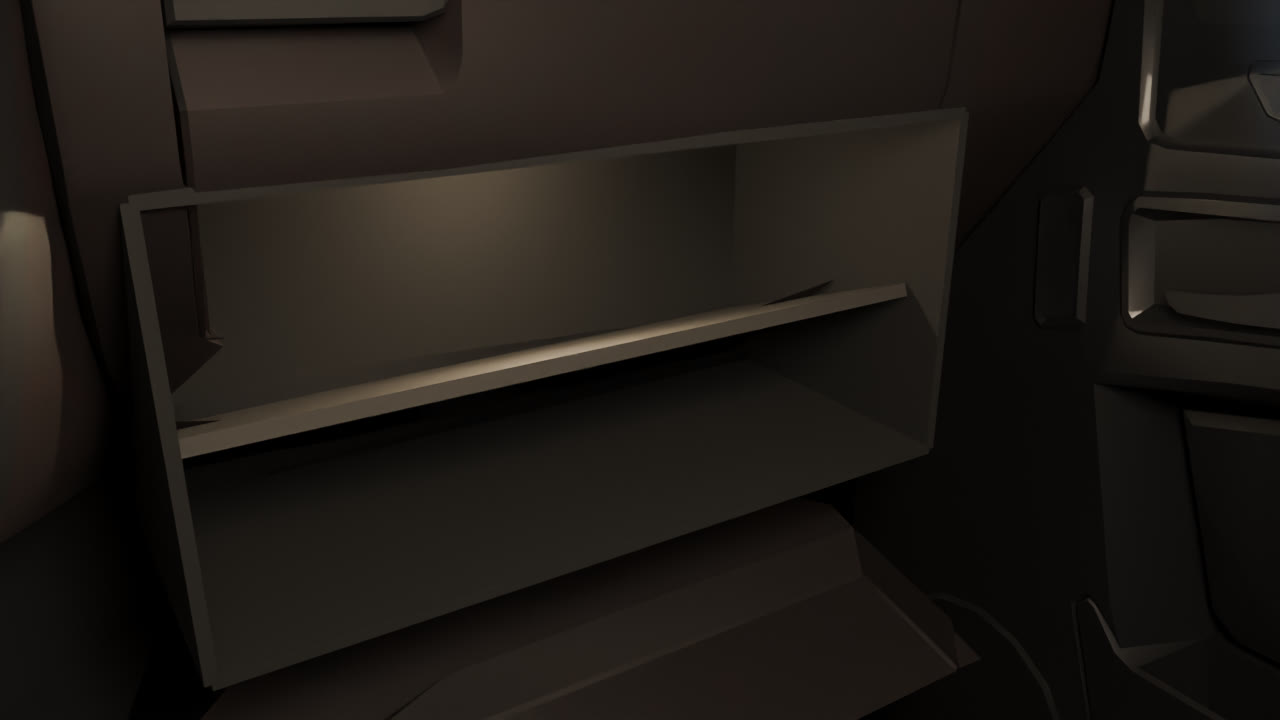
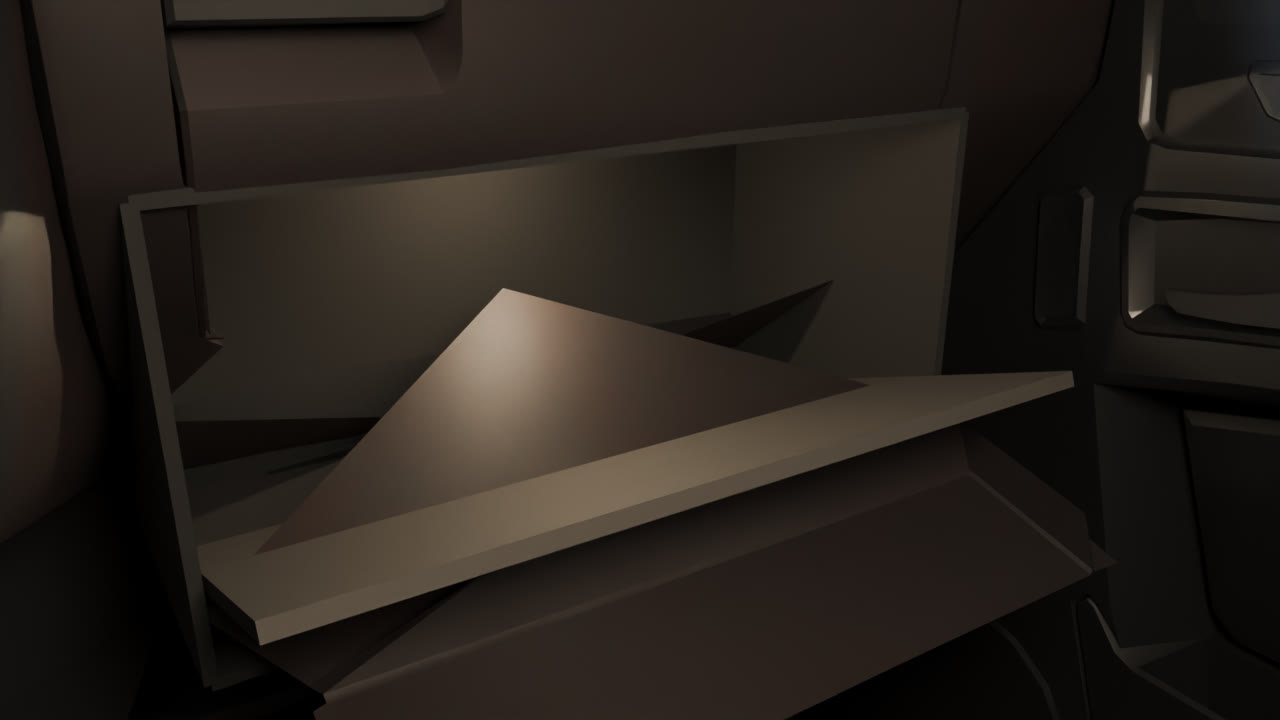
feat(escenas): placa de Veracruz aprobada, calcas mezcladas, puerto en vivo
La placa sigue el diseño actual de Veracruz que mandó el dueño (aprobada
03:36), con el QR a la ruta contada /wa/ (número pendiente con la banda).
Calcas mezcladas sobre la superficie real de la puerta. Guantera: el pivote
pasa a la piel frontal y la basura va sobre la puerta; el triángulo sigue en
revisión. En vivo: vidrios, postes y charcos, RectAreaLight; SSIM f0 sube a
0.425, f96 y f191 bajan (postes y caja demasiado fuertes).

Claude-Session: https://claude.ai/code/session_01JDrAz9gQxZCKuFdz2T7UmK

diff --git a/docs/design/escenas/utileria/index.html b/docs/design/escenas/utileria/index.html
@@ -28,7 +28,7 @@
 <body>
 <main>
 <h1>Utilería, ronda 2: elige una por objeto</h1>
-<p>Lo que pediste en la ronda 1, de noche y con la G63. Responde con la letra de cada objeto (por ejemplo «pantalla A, placa B»). La ronda 1 sigue en <a href="ronda1.html">su propia página</a>.</p>
+<p><b>Elegidas (03:22): pantalla B y caja B.</b> Lo que pediste en la ronda 1, de noche y con la G63. Responde con la letra de cada objeto (por ejemplo «pantalla A, placa B»). La ronda 1 sigue en <a href="ronda1.html">su propia página</a>.</p>
 <p>Lo que no es final: la placa usa letras de Windows provisionales y sus colores no están comparados con una foto de la placa 2026, porque no encontramos ninguna publicada. Por eso es una versión estilizada, sin escudos y sin código QR. En la caja se ocultó a Alexandro y a Diego, porque en el plan van en el asiento de atrás. En la guantera se ocultó a Héctor.</p>
 
 <section aria-labelledby="s-pantalla">
@@ -46,16 +46,24 @@
 <p>Ahora la puerta es la de la propia camioneta: se cortó del tablero, gira sobre su borde de abajo y queda abierta a 70°. Adentro hay una caja oscura.</p>
 <ul>
 <li><figure><a href="guantera2-borde.jpg"><img src="guantera2-borde.jpg" alt="Primer plano del corte de la guantera, sin objetos, para revisar los bordes" loading="lazy" width="1280" height="720"></a><figcaption>Los bordes del corte, de cerca y sin objetos.</figcaption></figure></li>
-<li><figure><a href="guantera2-c.jpg"><img src="guantera2-c.jpg" alt="Guantera abierta con un casete suelto, plumillas, una lista arrugada y lentes oscuros sobre la puerta" loading="lazy" width="1280" height="720"></a><figcaption><b>C</b>Casete suelto, plumillas, la lista arrugada y lentes. Falta corregir: quedaron en un estante dentro de la caja y no sobre la puerta.</figcaption></figure></li>
+<li><figure><a href="guantera2-c.jpg"><img src="guantera2-c.jpg" alt="Guantera abierta con un casete suelto, plumillas, una lista arrugada y lentes oscuros sobre la puerta" loading="lazy" width="1280" height="720"></a><figcaption><b>C</b>Casete suelto, plumillas, la lista arrugada y lentes, sobre la puerta abierta.</figcaption></figure></li>
 </ul>
 </section>
 
 <section aria-labelledby="s-placa">
-<h2 id="s-placa">3 · Placa A, con el formato de Veracruz</h2>
-<p>Medidas y forma de la norma (30 × 15 cm, esquinas redondas, cuatro ranuras, letras en relieve). Arriba dice VERACRUZ y abajo hay una franja amarilla, como en la placa del estado. No lleva escudos ni código QR, para que no pase por una placa real.</p>
+<h2 id="s-placa">3 · Placa, con el diseño actual de Veracruz</h2>
+<p>Sigue la placa de Veracruz que mandaste: el encabezado, la greca dorada en las esquinas, el lema y la línea de servicio. Lo que cambia: nuestras letras en lugar del número; el código QR abre el WhatsApp de la banda; el monograma MT va donde la placa real lleva el escudo nacional, porque la ley lo protege; el escudo del estado es un dibujo parecido, no el oficial.</p>
 <ul>
-<li><figure><a href="placa2-a.jpg"><img src="placa2-a.jpg" alt="Opción A: placa blanca con VERACRUZ arriba, MT·420·VER al centro y CONTRATACIONES abajo junto a una franja amarilla" loading="lazy" width="1280" height="720"></a><figcaption><b>A</b>MT·420·VER al centro y CONTRATACIONES abajo.</figcaption></figure></li>
-<li><figure><a href="placa2-b.jpg"><img src="placa2-b.jpg" alt="Opción B: placa blanca con VERACRUZ arriba, TUMBADA al centro y VERACRUZ abajo junto a una franja amarilla" loading="lazy" width="1280" height="720"></a><figcaption><b>B</b>TUMBADA en lugar del número; abajo se repite VERACRUZ, como en la placa del estado.</figcaption></figure></li>
+<li><figure><a href="placa3.jpg"><img src="placa3.jpg" alt="La placa estilo Veracruz en la defensa, vista desde la cámara de la escena 6, delante de la camioneta y con los faros de frente" loading="lazy" width="1280" height="720"></a><figcaption>Desde la cámara de la escena 6.</figcaption></figure></li>
+<li><figure><a href="placa-veracruz.jpg"><img src="placa-veracruz.jpg" alt="La placa de frente: VERACRUZ arriba, MT-420-VER al centro, greca dorada en las esquinas, QR arriba a la derecha y TRANSPORTE PRIVADO AUTOMOVIL abajo" loading="lazy" width="1200" height="600" style="aspect-ratio: 2 / 1"></a><figcaption>La placa de frente; el QR se puede escanear.</figcaption></figure></li>
+</ul>
+</section>
+
+<section aria-labelledby="s-calcas">
+<h2 id="s-calcas">5 · Calcas mezcladas</h2>
+<p>Cuatro estilos juntos, como si se hubieran ido juntando: Instagram troquelada y vieja (ya despintada), Spotify redonda, YouTube en tira y rayada, TikTok troquelada y nueva. El cuadro gris marca dónde va el ícono oficial, derecho y sin desgaste.</p>
+<ul>
+<li><figure><a href="calcas2.jpg"><img src="calcas2.jpg" alt="La puerta trasera con cuatro calcas de estilos distintos: una rosa despintada, una redonda verde, una tira roja rayada y una negra" loading="lazy" width="1280" height="720"></a><figcaption>Las cuatro en la puerta trasera.</figcaption></figure></li>
 </ul>
 </section>
 
@@ -72,7 +80,7 @@
 
 <section aria-labelledby="s-elegidas">
 <h2 id="s-elegidas">Ya elegidas, sin foto nueva</h2>
-<p>Pantalla móvil C (camión con marquesina de focos) y letreros verdes B (bandera desde el acotamiento) quedan anotados en el sistema de diseño. Las calcas mezcladas todavía no se hacen.</p>
+<p>Pantalla móvil C (camión con marquesina de focos) y letreros verdes B (bandera desde el acotamiento) quedan anotados en el sistema de diseño. </p>
 </section>
 </main>
 </body>

diff --git a/lab/vivo/index.html b/lab/vivo/index.html
@@ -27,6 +27,7 @@ import * as THREE from "three";
 import { GLTFLoader } from "three/addons/loaders/GLTFLoader.js";
 import { DRACOLoader } from "three/addons/loaders/DRACOLoader.js";
 import { HDRLoader } from "three/addons/loaders/HDRLoader.js";
+import { RectAreaLightUniformsLib } from "three/addons/lights/RectAreaLightUniformsLib.js";
 
 const q = new URLSearchParams(location.search);
 const FIJO = q.has("f") ? Number(q.get("f")) : null;
@@ -64,11 +65,35 @@ const draco = new DRACOLoader().setDecoderPath("/node_modules/three/examples/jsm
 const t0 = performance.now();
 const gltf = await new GLTFLoader().setDRACOLoader(draco).loadAsync(q.get("glb") || "/tmp/vivo/vivo.glb");
 const raiz = gltf.scene, FIGS = ["hector", "diego", "alejandro", "manager"];
-const mundo = new THREE.Group();
+const mundo = new THREE.Group(), tramo = new THREE.Group();
 for (const o of [...raiz.children]) {
-  if (o.name === "camion" || o.name === "cerros" || FIGS.includes(o.name)) scene.add(o); else mundo.add(o);
+  if (o.name === "camion" || o.name === "cerros" || FIGS.includes(o.name)) scene.add(o); else tramo.add(o);
 }
 scene.add(mundo);
+// glass (round 2): the vidrio_falso sheets go see-through and dark, as the Cycles thin glass
+scene.traverse(o => { if (o.isMesh && /^vidrio/.test(o.material.name)) Object.assign(o.material, { transparent: true, opacity: 0.15, depthWrite: false, color: new THREE.Color(0.02, 0.025, 0.03) }); });
+// pole lights and puddles, ported from src/scripts/escena.ts: the tramo cloned along the road, a real SpotLight only on the
+// two poles that pass the truck, additive puddle planes under every pole
+function charcoTex() {
+  const c = document.createElement("canvas"); c.width = c.height = 128;
+  const g = c.getContext("2d"), r = g.createRadialGradient(64, 64, 0, 64, 64, 64);
+  r.addColorStop(0, "rgba(255,255,255,1)"); r.addColorStop(0.45, "rgba(255,255,255,0.35)"); r.addColorStop(1, "rgba(255,255,255,0)");
+  g.fillStyle = r; g.fillRect(0, 0, 128, 128); return new THREE.CanvasTexture(c);
+}
+const matCharco = new THREE.MeshBasicMaterial({ map: charcoTex(), transparent: true, blending: THREE.AdditiveBlending, depthWrite: false, fog: true });
+matCharco.color.set(P.postes.color).multiplyScalar(P.postes.intensidad * 0.16);
+tramo.traverse(o => { if (o.isMesh && o.material.name === "lampara") o.material.emissiveIntensity = P.postes.encendidos ? 6 : 0; });
+for (let k = -2; k < 10; k++) {
+  const t = k === 0 ? tramo : tramo.clone();
+  t.position.z = -k * M.tramo;
+  const c = new THREE.Mesh(new THREE.PlaneGeometry(16, 16), matCharco);
+  c.rotation.x = -Math.PI / 2; c.position.set(3.4, 0.03, -8); t.add(c);
+  if (k === 0 || k === 1) {
+    const s = new THREE.SpotLight(P.postes.color, P.postes.intensidad * 90, 28, 1.1, 0.7, 1.4);
+    s.position.set(3.95, 8.7, -8); s.target.position.set(3.0, 0, -8); t.add(s, s.target);
+  }
+  mundo.add(t);
+}
 const ruedas = []; scene.traverse(o => { if (/^rueda\d/.test(o.name)) ruedas.push(o); });
 let tris = 0; scene.traverse(o => { if (o.isMesh) tris += (o.geometry.index ? o.geometry.index.count : o.geometry.attributes.position.count) / 3; });
 
@@ -97,9 +122,14 @@ for (const dx of [-0.62, 0.62]) {  // headlights (escena.ts)
 }
 const cal = new THREE.PointLight(P.calaveras.color, P.calaveras.intensidad, 6, 2); cal.position.set(M.carril_x, 0.9, M.largo_camion / 2 + 0.3); scene.add(cal);
 const luna = new THREE.DirectionalLight(P.luna.color, P.luna.intensidad * 3); luna.position.set(...P.luna.dir).multiplyScalar(50); scene.add(luna);
-// cab and bed lights of transicion.luces_interior (area lights there; point lights here, energy not matched: first pass)
-for (const [p, e, c] of [[[CX, 0.25, 2.12], 0.6, 0xffc78c], [[CX, 1.08, 1.45], 1.2, 0x8cbfff], [[CX, -1.0, 2.6], 6, 0xffd199]]) {
-  const l = new THREE.PointLight(c, e, 4, 2); l.position.set(...b2t(p)); scene.add(l);
+// cab and bed lights of transicion.luces_interior as RectAreaLights: (pos, aim, w, h, Blender W, colour); intensity = W / area × KA,
+// KA tuned against Cycles f0 (?ka= overrides)
+RectAreaLightUniformsLib.init();
+const KA = Number(q.get("ka") || 0.02);
+for (const [p, m, w, h, W, c] of [[[CX, 0.25, 2.12], [CX, 0.45, 1.3], 0.4, 0.2, 4, [1.0, 0.78, 0.55]],
+  [[CX, 1.08, 1.45], [CX, 0.2, 1.8], 1.0, 0.08, 25, [0.55, 0.75, 1.0]], [[CX, -1.0, 2.6], [CX, -2.2, 1.2], 1.4, 0.2, 90, [1.0, 0.82, 0.6]]]) {
+  const l = new THREE.RectAreaLight(new THREE.Color(...c), W / (w * h) * KA, w, h);
+  l.position.set(...b2t(p)); l.lookAt(...b2t(m)); scene.add(l);
 }
 
 function resize() { const w = innerWidth, h = innerHeight; renderer.setSize(w, h, false); cam.aspect = w / h; }

diff --git a/blender/utileria.py b/blender/utileria.py
@@ -872,6 +872,56 @@ def caja2_b_esc2():
     return VISTA_ESC2()
 
 
+# ---- plate after the current Veracruz design (owner 03:30): face from blender/placa_veracruz.py, seen from the scene-6 camera
+# (escenas-plan: ahead of the truck, low, travelling backwards, 32 mm, headlights toward the camera)
+@opcion("placa3")
+def placa3():
+    FILL_PLACA()
+    p = Vector((CX, DEFENSA.y + 0.016, 0.72))
+    rect_redondo(0.302, 0.152, 0.015, p, mat("u_placa_alu", (0.75, 0.75, 0.74), 0.35, 1.0))
+    m = img_mat("u_placa_vz", os.path.join(PANTALLAS, "placa-veracruz.png"), emit=0.15, rough=0.35)
+    nt = m.node_tree
+    nt.links.new(nt.nodes["Image Texture"].outputs["Alpha"], nt.nodes["Principled BSDF"].inputs["Alpha"])
+    plano(0.300, 0.150, p + Vector((0, 0.0022, 0)), m, rot=ROT_P)
+    return ((CX + 0.25, DEFENSA.y + 3.5, 0.78), (CX, DEFENSA.y, 0.86), 32)
+
+
+# ---- stickers mixed (owner's pick 3): A/B/C styles across the four, different ages, so they read as collected over time.
+# §2 rules kept by calca(): the glyph area stays upright and outside any wear.
+def gastado(nombre, color, f=0.5):
+    """Sun-faded vinyl: colour pulled towards a dusty grey, rougher."""
+    return mat(nombre, tuple(c * (1 - f) + g * f for c, g in zip(color, (0.62, 0.6, 0.57))), 0.75)
+
+
+def rayones(loc, w, h, n=7):
+    """Scuffs across the left two thirds (never over the glyph area on the right)."""
+    sucio = mat("u_rayon", (0.05, 0.045, 0.04), 0.9)
+    for i in range(n):
+        x = loc.x - w * 0.45 + (i * 0.37 % 1) * w * 0.55
+        z = loc.z - h * 0.4 + (i * 0.61 % 1) * h * 0.8
+        plano(0.012 + 0.03 * (i % 3) / 2, 0.0025, Vector((x, loc.y - 0.0045, z)), sucio, rot=(math.pi / 2, 0.4 * (i % 2 - 0.5), 0))
+
+
+@opcion("calcas2")
+def calcas2():
+    relleno((CX + 1.2, PORTON.y - 4.0, 1.3), (CX, PORTON.y, 1.15), 120)
+    """IG die-cut with a fat white border (A, oldest: faded), Spotify round badge (C), YouTube bumper strip (B, scuffed),
+    TikTok die-cut (A, newest)."""
+    def en(x, z):  # the tailgate has relief: sit each sticker on the surface hit at its own spot (round 2, first still)
+        h = rayo((x, PORTON.y - 1.0, z), (0, 1, 0))
+        return Vector((x, (h.y if h else PORTON.y) - 0.004, z))
+    bl = mat("u_vinil_blanco", (0.95, 0.95, 0.93), 0.3)
+    calca("SÍGUENOS", "EN INSTAGRAM", en(CX - 0.42, 1.27), 0.12, gastado("u_rosa_viejo", (0.9, 0.12, 0.35), 0.55),
+          gastado("u_blanco_viejo", (0.95, 0.95, 0.93), 0.3), gastado("u_borde_viejo", (0.95, 0.95, 0.93), 0.3))
+    calca("ESCÚCHANOS", "SPOTIFY", en(CX + 0.45, 1.25), 0.0, mat("u_badge_verde", (0.1, 0.55, 0.25), 0.3), bl, bl, h=0.2, forma="redonda")
+    yt = en(CX + 0.2, 1.08)
+    calca("MÍRANOS", "EN YOUTUBE", yt, -0.04, mat("u_rojo", (0.75, 0.04, 0.03), 0.3), bl, mat("u_borde_oro", (0.5, 0.38, 0.15), 0.4),
+          w=0.42, h=0.11, font="bahnschrift.ttf")
+    rayones(yt, 0.42, 0.11)
+    calca("ANDAMOS", "EN TIKTOK", en(CX - 0.4, 1.08), -0.15, NEGRO, bl, bl)
+    return VISTA_CALCAS()
+
+
 # ---- glovebox C: the door cut out of the G63 mesh. Destructive for the dash: these options must stay last in the file.
 CORTE = {}
 CORTE_BOX = ((1.95, 2.35), (1.15, 1.30), (1.15, 1.38))
@@ -891,15 +941,25 @@ def cortar_guantera():
     puertas, todos = [], []
     for o in [o for o in CAM.children_recursive if o.type == "MESH"]:
         mw = o.matrix_world
+        # door: faces centred in the box. The dash also loses any face with a corner in the box: a dash face centred outside but
+        # spanning the opening stayed standing in the hole as the owner's "weird triangle" (03:30)
+        vs = o.data.vertices
         idx = [f.index for f in o.data.polygons if dentro(mw @ f.center)]
+        roza = {f.index for f in o.data.polygons if any(dentro(mw @ vs[v].co) for v in f.vertices)}
         if not idx:
             continue
         o.data = o.data.copy()  # single user
         sel = set(idx)
+        # the door keeps only the front skin: the box also catches the bin's side walls (0.2 m deep), which rode up with the
+        # door as a stray triangle (owner, 03:30)
+        m3 = mw.to_3x3()
+        piel = {i for i in idx if abs((m3 @ o.data.polygons[i].normal).normalized().y) > 0.6 and (mw @ o.data.polygons[i].center).y < GUANTERA.y + 0.04}
+        print("CORTE piel", o.name, len(piel), "de", len(idx))
         puerta = o.copy()
         puerta.data = o.data.copy()
         sc.collection.objects.link(puerta)
-        for ob, quitar in ((o, lambda i: i in sel), (puerta, lambda i: i not in sel)):
+        print("CORTE roza", o.name, len(roza - sel), "caras extra del tablero")
+        for ob, quitar in ((o, lambda i: i in sel or i in roza), (puerta, lambda i: i not in piel)):
             bm = bmesh.new()
             bm.from_mesh(ob.data)
             bm.faces.ensure_lookup_table()
@@ -914,7 +974,10 @@ def cortar_guantera():
     lo = Vector((min(v.x for v in todos), min(v.y for v in todos), min(v.z for v in todos)))
     hi = Vector((max(v.x for v in todos), max(v.y for v in todos), max(v.z for v in todos)))
     print("CORTE bbox", lo, hi)
-    piv = Vector(((lo.x + hi.x) / 2, min(v.y for v in todos if v.z < lo.z + 0.01), lo.z))
+    # hinge on the front skin's lower edge: the cut runs 0.2 m deep and its lowest verts are at the back (y≈1.3), so a pivot
+    # taken from them swings the skin out as a wedge and leaves anything placed off the pivot inside the box
+    piv = Vector(((lo.x + hi.x) / 2, GUANTERA.y, lo.z))
+    print("CORTE piv", piv, "fondo-bajo", min(v.y for v in todos if v.z < lo.z + 0.01))
     giro = Matrix.Translation(piv) @ Matrix.Rotation(GIRO, 4, "X") @ Matrix.Translation(-piv)
     bpy.context.view_layer.update()
     for pt in puertas:
@@ -923,8 +986,7 @@ def cortar_guantera():
         pt.matrix_world = giro @ mw
     w, h = hi.x - lo.x, hi.z - lo.z
     # inner liner of the door (the cut skin has no inside), turned with it
-    # the cut faces run 0.2 m deep (round-2 first still), so the liner hangs off the hinge line, not off the deepest face
-    liner = caja((w - 0.01, 0.008, h - 0.01), (piv.x, piv.y + 0.03, lo.z + h / 2), mat("u_guantera_int", (0.03, 0.028, 0.026), 0.8), parent=False)
+    liner = caja((w - 0.01, 0.008, h - 0.01), (piv.x, piv.y + 0.012, lo.z + h / 2), mat("u_guantera_int", (0.03, 0.028, 0.026), 0.8), parent=False)
     bpy.context.view_layer.update()
     liner.matrix_world = giro @ liner.matrix_world
     # the dark inner box, open towards the cabin, its rim on the cut edges
@@ -939,7 +1001,8 @@ def cortar_guantera():
     luz("POINT", (cx, yb + 0.1, hi.z - 0.03), 2.0, (1.0, 0.8, 0.55), parent=False)
     luz("AREA", (cx - 0.1, yb - 0.45, hi.z + 0.2), 6.0, (1.0, 0.85, 0.65), mira=(cx, yb - 0.1, lo.z), size=0.2, parent=False)
     n = giro.to_3x3() @ Vector((0, 1, 0))  # the door's inside, now facing up
-    centro = giro @ Vector((piv.x, piv.y + 0.034, lo.z + h / 2))
+    centro = giro @ Vector((piv.x, piv.y + 0.016, lo.z + h / 2))
+    print("CORTE centro", centro)
     CORTE.update(objs=puertas + list(GRUPO), centro=centro, n=n, lo=lo, hi=hi)
     for pt in puertas:
         GRUPO.append(pt)

diff --git a/blender/placa_veracruz.py b/blender/placa_veracruz.py
@@ -1,0 +1,111 @@
+"""Plate face after the current Veracruz private-car plate (owner's reference, mothership 03:30): white field, VERACRUZ heading,
+olive geometric corner pattern, faint crest watermark, QR top right, the state slogan logo, TRANSPORTE PRIVADO AUTOMOVIL, round
+seals, a 30 and a red T badge. Ours in place of the official parts: the characters, the MT monogram in the national-seal spot
+(Ley sobre el Escudo, la Bandera y el Himno Nacionales), a simplified crest lookalike, a QR that opens the band's WhatsApp.
+
+  uv run -q --with pillow --with qrcode python -I blender/placa_veracruz.py [CHARS=MT-420-VER]
+
+Writes tmp/utileria/placa-veracruz.png (1200×600 = 300×150 mm at 4 px/mm, rounded corners transparent).
+"""
+import os, sys
+import qrcode
+from PIL import Image, ImageDraw, ImageFont
+
+REPO = os.path.dirname(os.path.dirname(os.path.abspath(__file__)))
+# the site's counted WhatsApp route (main: wa.js, /wa/<number>); number from socials.ts, pending the band's confirmation
+WA = "https://mafiatumbada.com/wa/5212283538827"
+BAH = "/mnt/c/Windows/Fonts/bahnschrift.ttf"  # DIN-like stand-in for the plate face; variable: wdth 75-100, wght 300-700
+OLIVA, OLIVA_C, GRIS, MARCA, ROJO, TINTA = "#a8955a", "#d8cb9a", "#9a9a98", "#ececea", "#d0202a", "#141414"
+W, H, MM = 1200, 600, 4
+
+
+def bah(px, wght=600, wdth=100):
+    f = ImageFont.truetype(BAH, px)
+    f.set_variation_by_axes([wght, wdth])
+    return f
+
+
+def centrado(d, x, y, s, f, fill):
+    l, t, r, b = f.getbbox(s)
+    d.text((x - (r - l) / 2 - l, y - (b - t) / 2 - t), s, font=f, fill=fill)
+
+
+def greca(d, x0, y0, sx, sy, n=6, c=34):
+    """Stepped fret cells filling a triangle from the corner (sx, sy = ±1 point the triangle inwards)."""
+    for i in range(n):
+        for j in range(n - i):
+            x, y = x0 + sx * i * c, y0 + sy * j * c
+            box = (min(x, x + sx * c), min(y, y + sy * c), max(x, x + sx * c), max(y, y + sy * c))
+            col = OLIVA if (i + j) % 2 == 0 else OLIVA_C
+            d.rectangle(box, outline=col, width=5)
+            k = c * 0.3
+            d.rectangle((box[0] + k, box[1] + k, box[2] - k, box[3] - k), fill=col)
+
+
+def sello(d, cx, cy, r, texto=None, GRIS=GRIS):
+    d.ellipse((cx - r, cy - r, cx + r, cy + r), outline=GRIS, width=4)
+    d.ellipse((cx - r * 0.78, cy - r * 0.78, cx + r * 0.78, cy + r * 0.78), outline=GRIS, width=2)
+    if texto:
+        centrado(d, cx, cy, texto, bah(int(r * 0.85), 700, 75), GRIS)
+    else:  # crest lookalike: a crenellated tower over waves, not the state arms
+        t = r * 0.42
+        d.rectangle((cx - t, cy - t * 0.6, cx + t, cy + t * 0.5), outline=GRIS, width=3)
+        for k in range(-2, 3, 2):
+            d.rectangle((cx + k * t / 2.4 - t / 6, cy - t * 0.95, cx + k * t / 2.4 + t / 6, cy - t * 0.6), fill=GRIS)
+        d.line([(cx - t, cy + t * 0.8), (cx - t / 3, cy + t * 0.6), (cx + t / 3, cy + t * 0.8), (cx + t, cy + t * 0.6)], fill=GRIS, width=3)
+
+
+def cara(chars):
+    img = Image.new("RGBA", (W, H), (0, 0, 0, 0))
+    d = ImageDraw.Draw(img)
+    d.rounded_rectangle((0, 0, W - 1, H - 1), radius=14 * MM, fill="white", outline="#c9c9c6", width=3 * MM)
+    greca(d, 3 * MM, 3 * MM, 1, 1, n=5)
+    greca(d, W - 3 * MM, 3 * MM, -1, 1, n=4)
+    # faint crest watermark behind the characters (lookalike outline)
+    cx, cy = W / 2, H * 0.53
+    for r, w in ((190, 6), (150, 3)):
+        d.ellipse((cx - r, cy - r * 1.1, cx + r, cy + r * 1.1), outline=MARCA, width=w)
+    sello(d, cx, cy, 120, GRIS=MARCA)
+    # NOM-001 slots: 20 × 6 mm, 50 mm from the sides, 10 mm from top and bottom
+    for x in (50 * MM, W - 70 * MM):
+        for y in (10 * MM, H - 16 * MM):
+            d.rounded_rectangle((x, y, x + 20 * MM, y + 6 * MM), radius=3 * MM, outline="#d4d4d2", width=3)
+    centrado(d, W / 2, 62, "VERACRUZ", bah(92, 700, 100), TINTA)
+    centrado(d, 60, 205, "T", bah(56, 700, 100), ROJO)
+    # small two-line block under the left pattern (ours: the band, not the state government)
+    sello(d, 128, 142, 20, "MT")
+    for k, s in enumerate(("MAFIA", "TUMBADA")):
+        d.text((156, 126 + k * 18), s, font=bah(17, 600, 85), fill=GRIS)
+    q = qrcode.QRCode(border=1, box_size=4)
+    q.add_data(WA)
+    q.make(fit=True)
+    qi = q.make_image(fill_color=TINTA, back_color="white").convert("RGBA")  # 4 px a module, no resample
+    img.alpha_composite(qi, (W - 3 * MM - 4 * 34 - 128, 30))  # clear of the fret, so it scans
+    # the characters: condensed, the plate's weight
+    px = 280
+    f = bah(px, 600, 75)
+    while f.getlength(chars) > W - 150:
+        px -= 6
+        f = bah(px, 600, 75)
+    centrado(d, W / 2, H * 0.52, chars, f, TINTA)
+    # bottom: slogan logo, 30, seals, service line
+    greca_ic = (W / 2 - 150, 452)
+    for i in range(2):
+        for j in range(2):
+            x, y = greca_ic[0] + i * 18, greca_ic[1] + j * 18
+            d.rectangle((x, y, x + 16, y + 16), outline=OLIVA if (i + j) % 2 == 0 else OLIVA_C, width=3)
+            d.rectangle((x + 5, y + 5, x + 11, y + 11), fill=OLIVA)
+    d.text((W / 2 - 104, 444), "VERACRUZ", font=bah(42, 700, 100), fill="#5b4a6b")
+    d.text((W / 2 - 100, 490), "ME LLENA DE ORGULLO", font=bah(17, 600, 90), fill="#5b4a6b")
+    centrado(d, W / 2, 548, "TRANSPORTE PRIVADO AUTOMOVIL", bah(30, 700, 100), TINTA)
+    centrado(d, W - 230, 482, "30", bah(46, 700, 100), TINTA)
+    sello(d, 96, 500, 40, "MT")   # the national-seal spot: our monogram (Ley sobre el Escudo…)
+    sello(d, W - 96, 500, 40)     # state crest lookalike
+    return img
+
+
+if __name__ == "__main__":
+    out = os.path.join(REPO, "tmp", "utileria")
+    os.makedirs(out, exist_ok=True)
+    cara(sys.argv[1] if len(sys.argv) > 1 else "MT-420-VER").save(os.path.join(out, "placa-veracruz.png"))
+    print("ok")

diff --git a/docs/design/DESIGN.md b/docs/design/DESIGN.md
@@ -72,6 +72,7 @@ Square everywhere: buttons, covers, panel. No pill (owner: only if picked over 2
 | `Icono.astro`: play and pause paths with the same eight points, so MorphSVG mixes them | references.md › iconos (GSAP row). Crafted morph inside 250 ms: 60 ms shrink to .88, 90 ms closing the two bars into one block (the designed middle shape), 100 ms from the block into the other glyph while the scale overshoots with `back.out(2.4)`, settle. Library gap: no measured icon morph exists, unproven |
 | Scene prop, pantalla móvil (owner's pick C, 2026-11-13): a box truck with the side LED screen framed by a marquee of warm bulbs, the rear screen the same; LED look = pixelated image under a round-dot mask, emissive; the rear screen shows the empty state ("Próximas fechas · Muy pronto"), never invented dates | references.md › Scene props, phase 1 › pantalla (peru-retail LED box trucks); `blender/utileria.py` `pantalla-c` |
 | Scene prop, green signs (owner's pick B, 2026-11-13): a bandera cantilever from the right shoulder, the sign over the band's lane; SCT green field, white retroreflective legend and border, clearance over 5.5 m; shipped lettering in "tipografía México" (stills use Bahnschrift) | references.md › Scene props, phase 1 › portico (NOM-034-SCT2/SEDATU-2022; the El Puertecito cantilever photo); `blender/utileria.py` `portico-b` |
+| Scene prop, licence plate (owner approved 2026-11-13 03:36): after the current Veracruz private-car plate: white field, VERACRUZ heading, olive stepped fret in the top corners, faint crest watermark, QR top right (the counted `/wa/` route), slogan logo, TRANSPORTE PRIVADO AUTOMOVIL, 30, red T; ours: MT-420-VER, the MT monogram in the national-seal spot, a simplified crest lookalike. Seen from the scene-6 camera | references.md › Scene props, round 2 › placa (the owner's reference image; NOM-001-SCT-2-2016 for size and slots); `blender/placa_veracruz.py`, `blender/utileria.py` `placa3` |
 | Motion tokens: `--dur-press` 80 ms, `--dur-state` 250 ms, `--dur-fill` 500 ms, `--ease-out` | references.md › estados (boleto-perforado timing family; bands 40-80, 150-250, 350-500) |
 
 ## Motion
@@ -108,6 +109,9 @@ transfer, over the 150 KB cap, `web/site-reading-fichas/landonorris-com/speed-39
 
 ## Open (the owner's; placeholders in use)
 - WhatsApp number: `socials.ts` (228 353 8827) is used; SPEC §4 says 228 835 1464.
+  The scene plate's QR (`blender/placa_veracruz.py`, `WA`) points at the counted route `https://mafiatumbada.com/wa/5212283538827`,
+  pending the band's confirmation. To swap it: edit `WA`, run `uv run -q --with pillow --with qrcode python -I blender/placa_veracruz.py`,
+  then re-render `placa3` with `blender/utileria.py`. The site's live WhatsApp buttons need the same swap.
 - Scene props (radio + cassette + dash key, glovebox junk, stickers, pantalla móvil, sign gantries, plate, bed props): three
   options each, waiting on the owner's pick (`docs/design/escenas/utileria/index.html`; sources in `references.md` › Scene props,
   phase 1). Each picked element joins Components with its source row; none is a rule yet.

diff --git a/docs/design/references.md b/docs/design/references.md
@@ -104,3 +104,4 @@ O = page opened; S = seen only in search results. Gate: `refs-check.py docs/desi
 | placa | real world · Veracruz layout, unotv.com/nacional/placas-vehiculares-en-mexico-asi-son-los-disenos-de-cada-estado/ (O, 2025-05-05): state name on top beside a QR, characters in the centre, the state name again at the bottom beside a yellow figure, national arms left, state arms right; 2026 reemplacamiento, ejecentral.com.mx/nuestro-eje/reemplacamiento-2026-en-veracruz-que-autos-cambiaran-primero-como-identificarlas-y-cuando-inicia (O) and veracruz.quadratin.com.mx/programa-de-reemplacamiento-2026-ano-nuevo-placas-nuevas/ (O): neither describes the 2026 design | VERACRUZ on top, our characters in the centre, a bottom line beside a plain yellow bar standing in for the figure; no arms, no QR. **Colours not verified against a photo:** no source found shows the 2026 issue; white field and black characters are kept from round 1 | M |
 | caja | interacciones-que-responden · the pat-to-reveal mascot: a small reaction on hover or tap · `web/visuales-fichas/interacciones-que-responden.md` (status: proven) | Still one wobble per prop on hover, now over more props; the build picks which few respond (tell 13) | B |
 | caja | real world · as round 1 (Intex donut, Coleman cooler, 7-point piñata) plus party props: beach ball, balloons tied to the roll bar, a second ring float, maracas, a small LED speaker, a straw sombrero (generic objects, no single source) | Bed A fuller, composed as a pyramid peaking at the piñata: A1 stacked (the piñata sits on the cooler and donut), A2 hanging (the piñata hangs from the roll bar). Judged from the scene-2 camera (`T.CAMINO[-1]`, v3 f191) | M |
+| placa | user: owner's reference image of the current Veracruz private-car plate (mothership, 03:30; `/tmp/claude-1001/-home-black-projects-mothership/106e6a19-3b07-4875-ac71-16a1b3d770b6/images/10.png`, not kept in the repo) | Plate redone after it (supersedes the stylised A1/A2): white field, VERACRUZ heading, olive stepped fret in the top corners, faint crest watermark, QR top right, the slogan logo, TRANSPORTE PRIVADO AUTOMOVIL, 30, round seals, red T. Ours: MT-420-VER, a QR to the band's wa.me (`research/contenido/socials.ts`), the MT monogram in the national-seal spot (Ley sobre el Escudo, la Bandera y el Himno Nacionales), a simplified crest lookalike. Face: `blender/placa_veracruz.py` | M |

diff --git a/docs/design/escenas/handoff-ronda2-resto.md b/docs/design/escenas/handoff-ronda2-resto.md
@@ -14,12 +14,11 @@ screen faces into `tmp/utileria/`.
   with SSIM, the real-GPU fps and the heads retopo. Each is listed in `handoff-fase1-ronda2.md` › Live port fixes.
 
 ## Known limits of round 2
-- **Glovebox junk is misplaced (open defect).** In `guantera2-c` the junk, and the liner it sits on, end up as a shelf inside
-  the box, while the dropped door shows as a wedge below the opening. One fix was tried: the liner was hung from the hinge line
-  instead of the deepest face, and nothing changed. Next step: print `piv`, `centro` and the door's rotated bbox, and check
-  whether the shelf is the liner or part of the cut mesh.
+- **Glovebox junk: fixed (03:18).** The cause was the pivot. It was taken from the lowest verts, which are the back of the
+  0.2 m-deep cut (y 1.3465). It now sits on the front skin at `GUANTERA.y` (1.234). One side wall of the shell sticks up beside the
+  door; it is kept, because bin-style gloveboxes have walls.
 - **Glovebox.** The faces in the handoff box run 0.2 m deep, so the door carries side walls, not a flat skin. The junk sits on
-  a liner hung from the hinge line. The door turns about world X around a pivot that is not parented to the truck, so this works
+  a liner on the door's inside. The door turns about world X around a pivot that is not parented to the truck, so this works
   for stills only. The build needs the door parented to the truck.
 - **Glovebox cut is destructive.** The `guantera2-*` options must stay last in `utileria.py`, because the dash keeps its hole
   for every later still in the same run.
